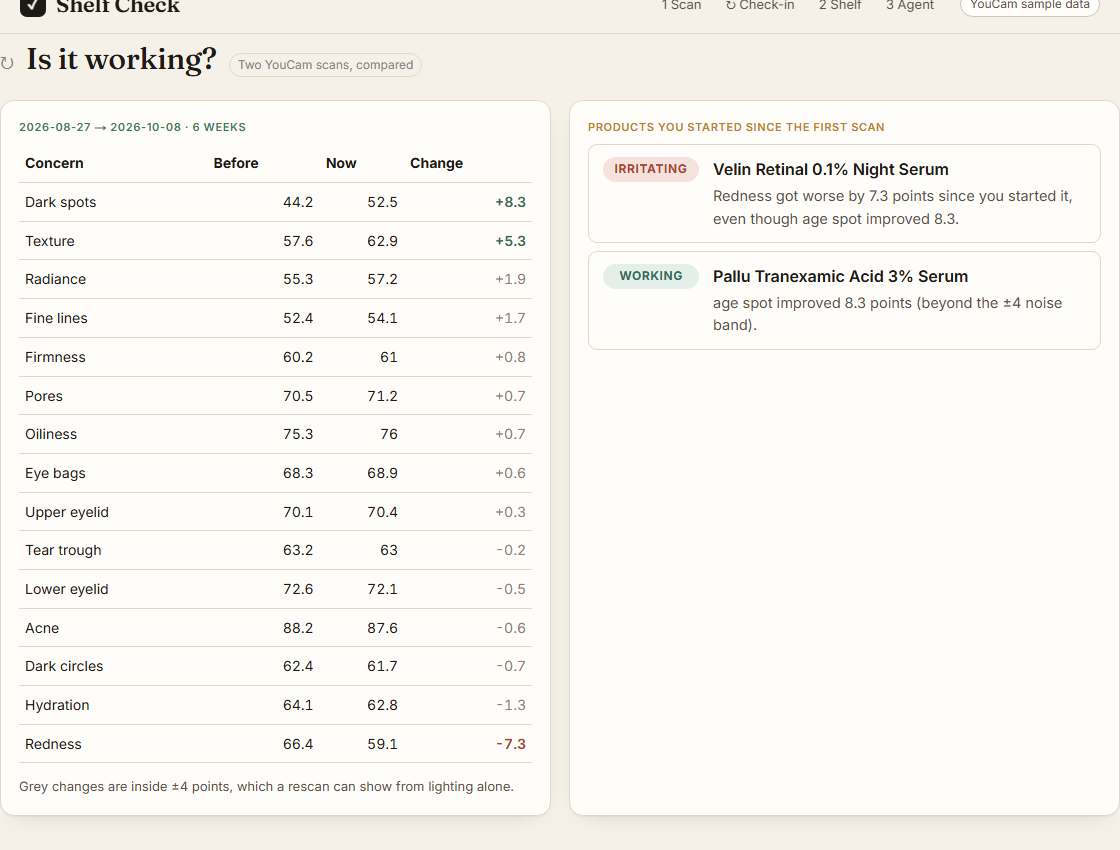
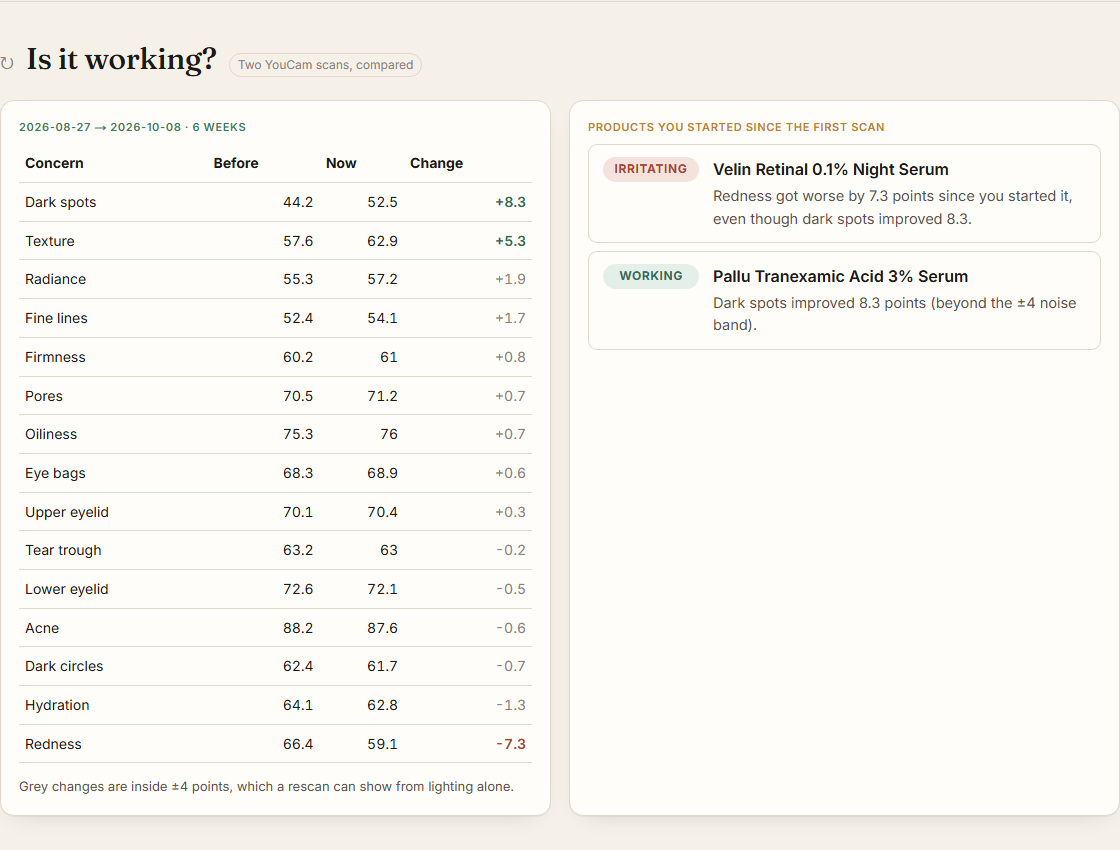
Polish: readable concern names in check-in verdicts, clean section screenshots
Claude-Session: https://claude.ai/code/session_01EAg5hAruxoqT5QQU3WKU71

diff --git a/lib/rules/progress.ts b/lib/rules/progress.ts
@@ -1,5 +1,5 @@
 // 「효과가 나면 이 정도」 시뮬레이션 강도(보수 상한)와 재스캔 비교로 제품별 효과를 판정한다
-import type { Concern, ShelfItem, SkinScan } from "../domain/types";
+import { CONCERN_LABEL, type Concern, type ShelfItem, type SkinScan } from "../domain/types";
 import { mustProduct } from "../catalog/products";
 import { SIMULATION_KEY } from "../youcam/requests";
 
@@ -73,14 +73,14 @@ export function compareScans(before: SkinScan, after: SkinScan, shelf: ShelfItem
       if (p.irritation >= 2 && redness && redness.delta <= -NOISE_BAND) {
         verdict = "irritating";
         why = `Redness got worse by ${Math.abs(redness.delta)} points since you started it${
-          best && best.delta >= NOISE_BAND ? `, even though ${best.concern.replace(/_/g, " ")} improved ${best.delta}` : ""
+          best && best.delta >= NOISE_BAND ? `, even though ${CONCERN_LABEL[best.concern].toLowerCase()} improved ${best.delta}` : ""
         }.`;
       } else if (weeksIn < need / 2) {
         verdict = "too_early";
         why = `${weeksIn} weeks in; this kind of product usually needs about ${need}.`;
       } else if (best && best.delta >= NOISE_BAND) {
         verdict = "working";
-        why = `${best.concern.replace(/_/g, " ")} improved ${best.delta} points (beyond the ±${NOISE_BAND} noise band).`;
+        why = `${CONCERN_LABEL[best.concern]} improved ${best.delta} points (beyond the ±${NOISE_BAND} noise band).`;
       } else if (mean <= -NOISE_BAND) {
         verdict = "not_working";
         why = "Its target concerns got worse beyond the noise band.";

diff --git a/e2e/demo.spec.ts b/e2e/demo.spec.ts
@@ -3,6 +3,18 @@ import { expect, test } from "@playwright/test";
 
 const shots = process.env.SHOTS === "1";
 
+// Section screenshots scroll the section under the sticky header; unstick it while capturing.
+test.beforeEach(async ({ page }) => {
+  if (!shots) return;
+  await page.addInitScript(() => {
+    document.addEventListener("DOMContentLoaded", () => {
+      const style = document.createElement("style");
+      style.textContent = ".topbar{position:static!important}";
+      document.head.appendChild(style);
+    });
+  });
+});
+
 test("Maya: breakout plan pauses the peel pads and buys two basics", async ({ page }) => {
   await page.goto("/");
   await expect(page.getByRole("heading", { name: "Check your shelf before you buy." })).toBeVisible();
